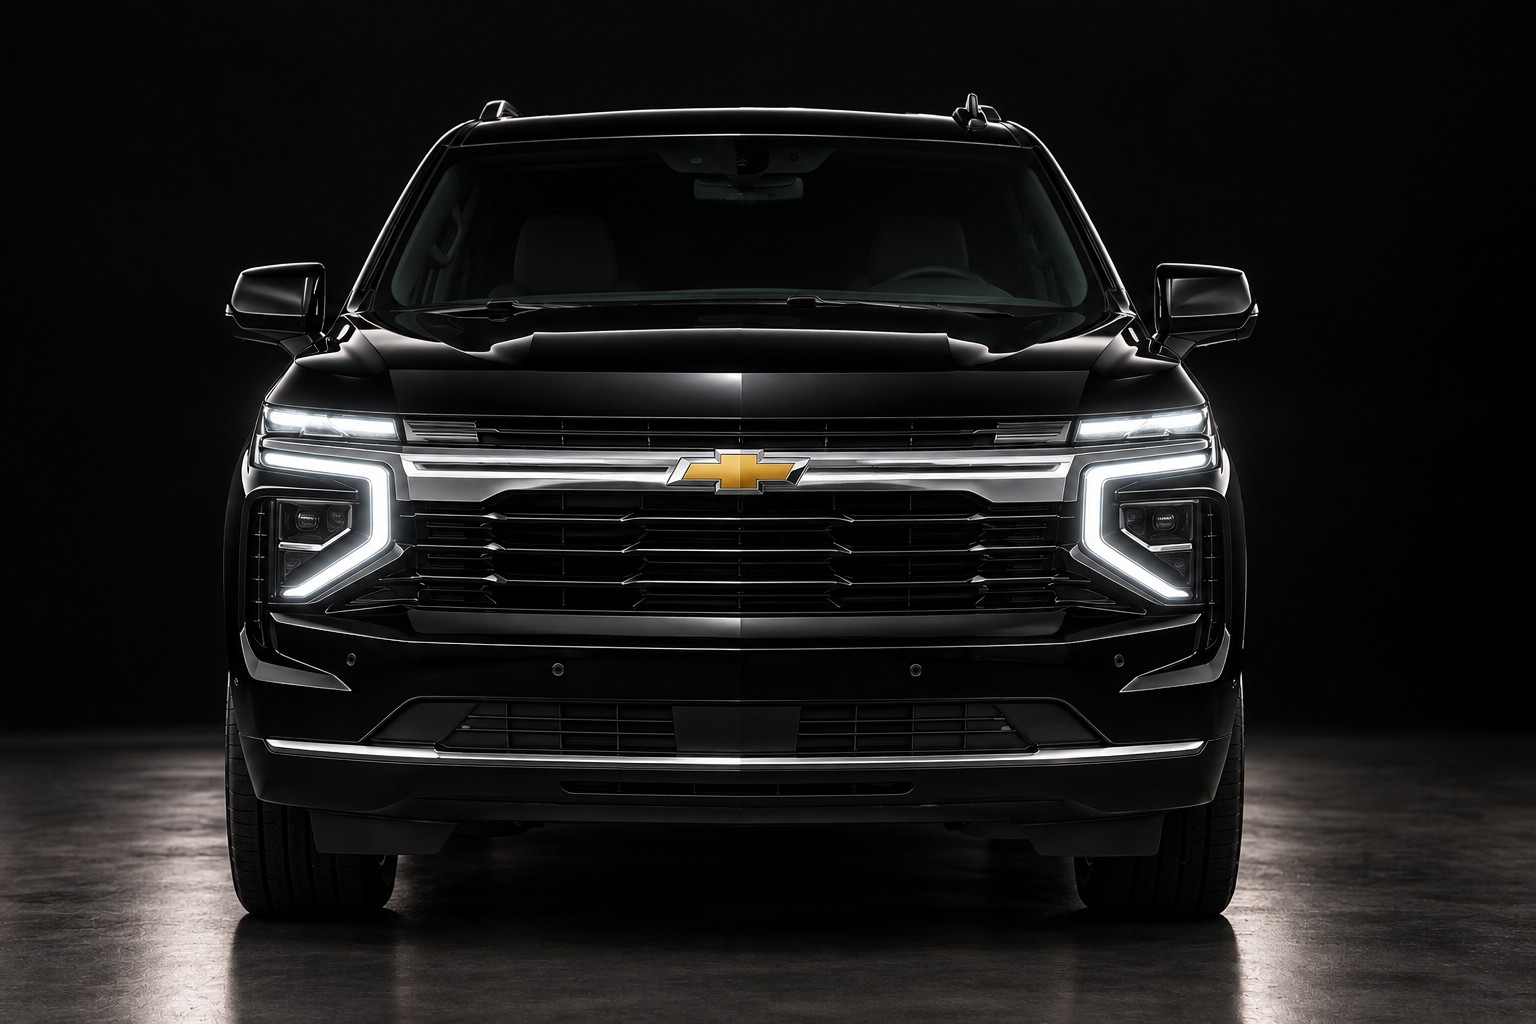
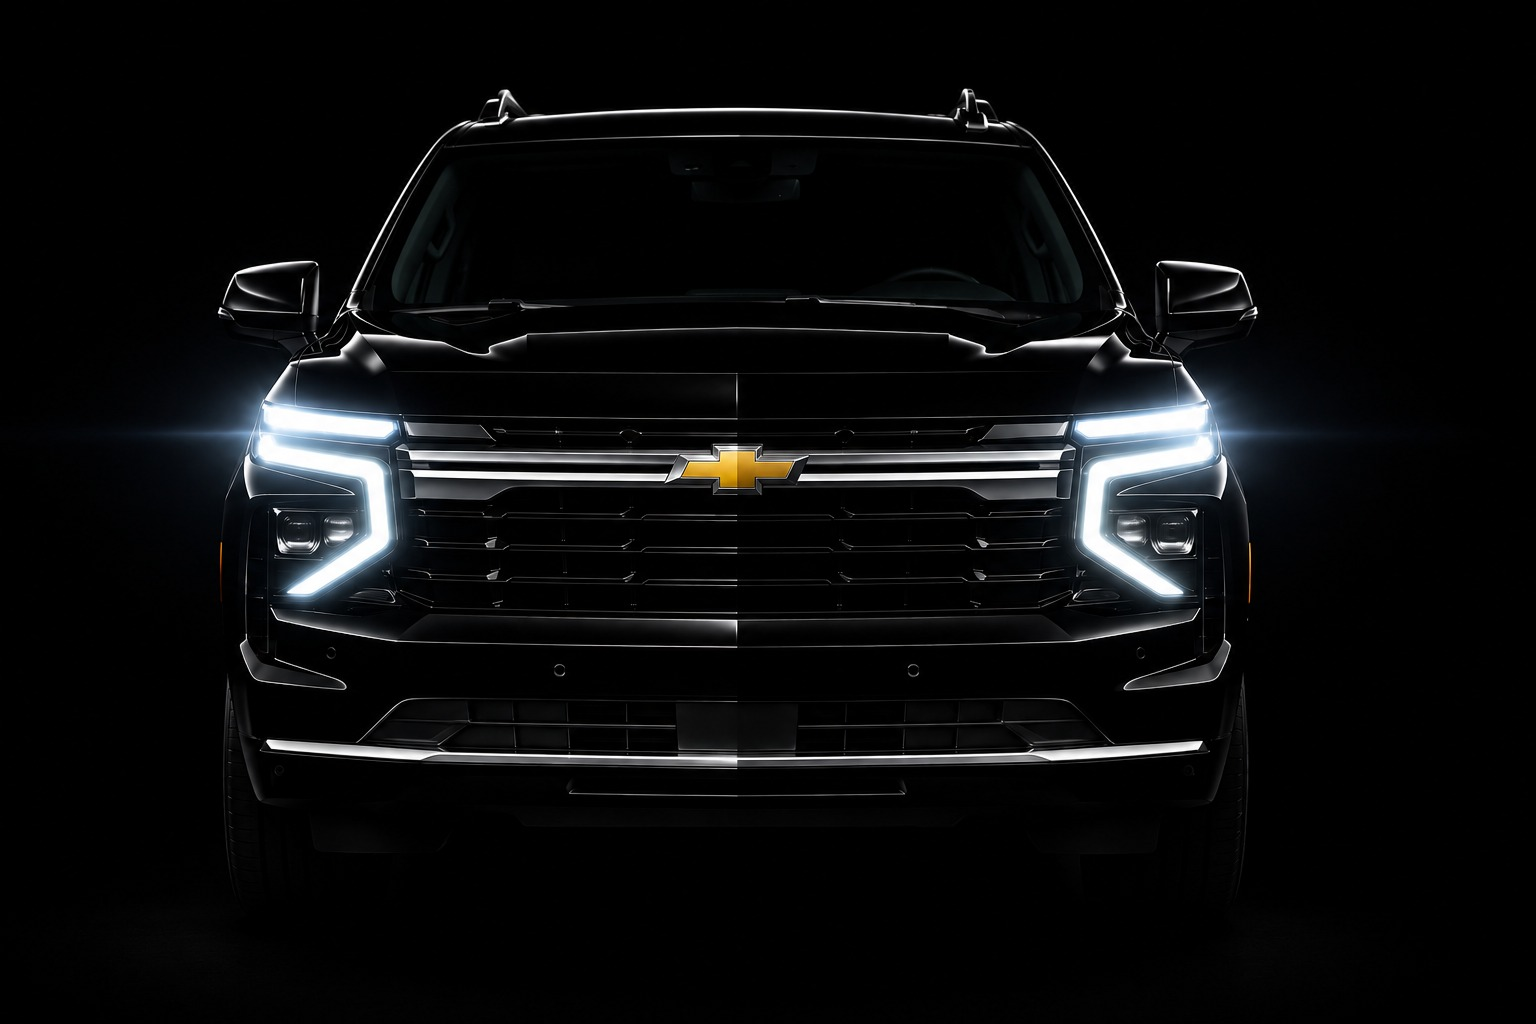
Swap in the new hero vehicle shot, widen the gap to the headline text
Replaced the Suburban photo with the higher-contrast version (pure
black background, brighter headlight flare) Ahmed sent. Also narrowed
the text column and pushed the fade/reveal point further right so
there's more clear dark space between the headline/button and where
the car starts, per his request. Old hero photo kept locally as
suburban-hero-v1-backup.jpg (not committed).

Claude-Session: https://claude.ai/code/session_01351bRiZ3YMobE7nra8zN6x

diff --git a/index.html b/index.html
@@ -116,12 +116,12 @@
     background:radial-gradient(circle, rgba(242,237,227,0.14) 0%, transparent 70%);
     pointer-events:none;
   }
-  .hero-grid{max-width:600px; position:relative; z-index:2;}
+  .hero-grid{max-width:500px; position:relative; z-index:2;}
   .hero-car{
     position:absolute; top:50%; right:-4%; transform:translateY(-50%);
-    width:58%; max-width:820px; z-index:1; pointer-events:none;
-    -webkit-mask-image:linear-gradient(to right, transparent 0%, rgba(0,0,0,0.45) 16%, #000 40%);
-    mask-image:linear-gradient(to right, transparent 0%, rgba(0,0,0,0.45) 16%, #000 40%);
+    width:54%; max-width:780px; z-index:1; pointer-events:none;
+    -webkit-mask-image:linear-gradient(to right, transparent 0%, rgba(0,0,0,0.35) 26%, #000 54%);
+    mask-image:linear-gradient(to right, transparent 0%, rgba(0,0,0,0.35) 26%, #000 54%);
   }
   .hero-car img{width:100%; height:auto; display:block;}
   .hero-trust{font-size:0.85rem; color:var(--steel); margin-top:16px;}
